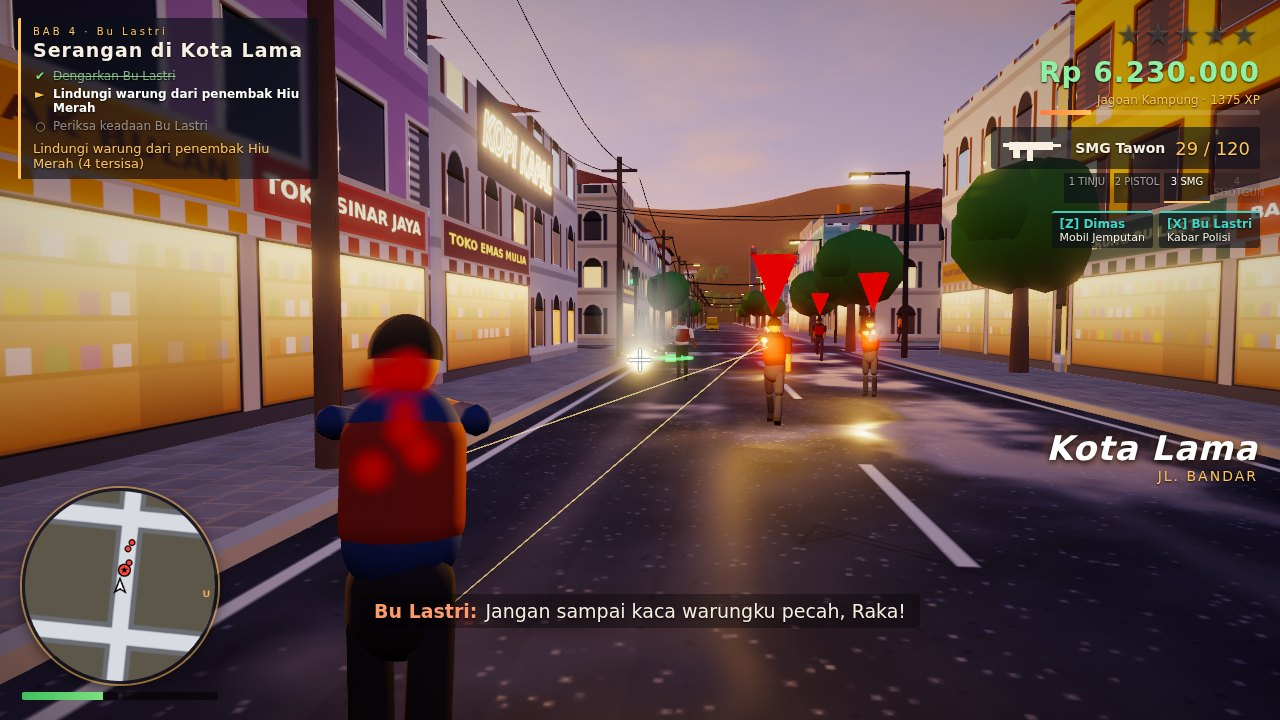
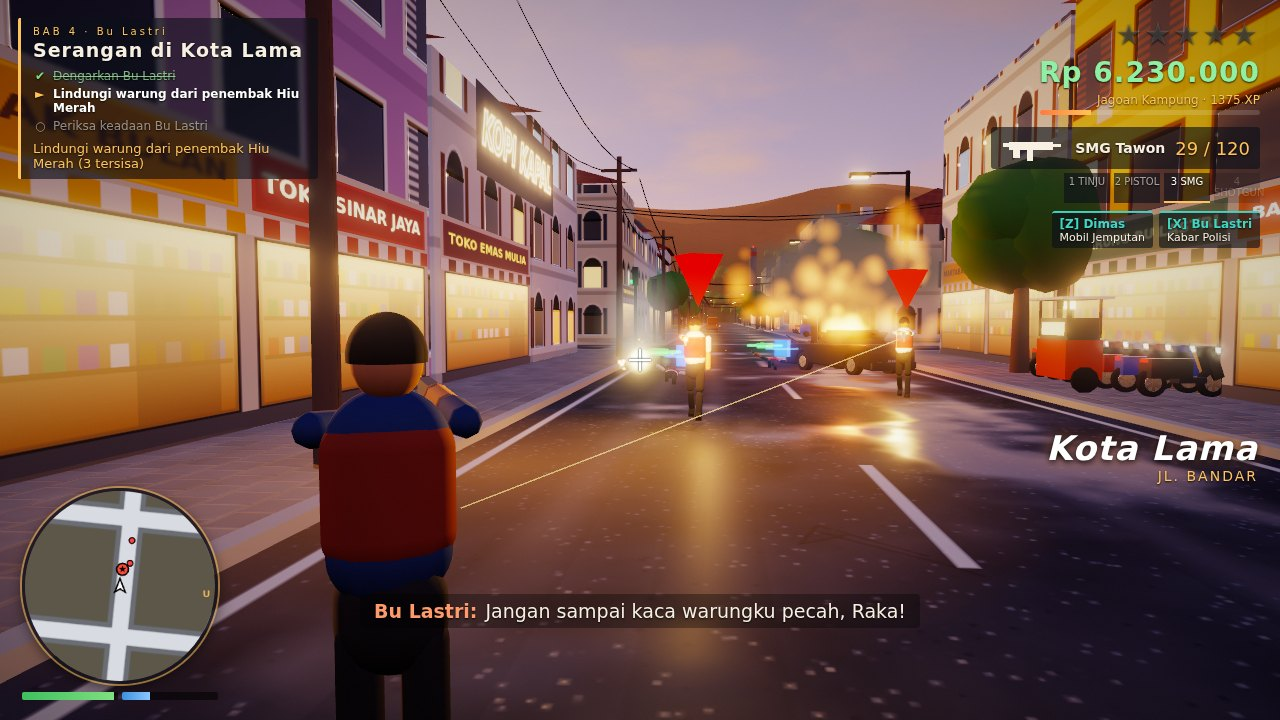
Lamp light pools, faces and headscarves, explosion fireball in the combat shot

diff --git a/game/src/characters/humanoid-model.js b/game/src/characters/humanoid-model.js
@@ -15,6 +15,11 @@ const G = {
   get shin() { return assets.geometry('h-shin', () => new THREE.CapsuleGeometry(0.06, 0.32, 3, 8).translate(0, -0.21, 0)); },
   get shoe() { return assets.geometry('h-shoe', () => new THREE.BoxGeometry(0.1, 0.07, 0.24).translate(0, -0.03, 0.05)); },
   get cap() { return assets.geometry('h-cap', () => new THREE.CylinderGeometry(0.12, 0.125, 0.1, 12).translate(0, 0.07, 0)); },
+  get eye() { return assets.geometry('h-eye', () => new THREE.SphereGeometry(0.016, 6, 4)); },
+  get nose() { return assets.geometry('h-nose', () => new THREE.BoxGeometry(0.03, 0.045, 0.04)); },
+  get scarf() { return assets.geometry('h-scarf', () => new THREE.SphereGeometry(0.135, 14, 10, 0, Math.PI * 2, 0, Math.PI * 0.62).scale(1, 1.15, 1.05)); },
+  get drape() { return assets.geometry('h-drape', () => new THREE.ConeGeometry(0.2, 0.26, 14, 1, true).translate(0, -0.02, 0)); },
+  get skirt() { return assets.geometry('h-skirt', () => new THREE.ConeGeometry(0.27, 0.78, 14, 1, true).translate(0, -0.4, 0)); },
   get brim() { return assets.geometry('h-brim', () => new THREE.BoxGeometry(0.2, 0.02, 0.12).translate(0, 0.03, 0.12)); },
 };
 
@@ -71,9 +76,19 @@ export class HumanoidModel {
     head.position.y = 0.12;
     head.castShadow = true;
     this.neck.add(head);
-    const hairMesh = new THREE.Mesh(G.hair, hair);
-    hairMesh.position.set(0, 0.135, -0.01);
-    this.neck.add(hairMesh);
+    const eyeMat = assets.cloth(0x140c08);
+    for (const sx of [-0.04, 0.04]) { const e = new THREE.Mesh(G.eye, eyeMat); e.position.set(sx, 0.14, 0.1); this.neck.add(e); }
+    const nose = new THREE.Mesh(G.nose, skin); nose.position.set(0, 0.11, 0.11); this.neck.add(nose);
+    if (look.scarf) {
+      // Headscarf framing the face, with a drape over the shoulders.
+      const sc = assets.cloth(look.scarf);
+      const cap = new THREE.Mesh(G.scarf, sc); cap.position.set(0, 0.11, -0.012); cap.rotation.x = -0.25; this.neck.add(cap);
+      const drape = new THREE.Mesh(G.drape, sc); drape.position.set(0, 0.02, 0); this.neck.add(drape);
+    } else {
+      const hairMesh = new THREE.Mesh(G.hair, hair);
+      hairMesh.position.set(0, 0.135, -0.01);
+      this.neck.add(hairMesh);
+    }
     if (look.cap) {
       const cap = new THREE.Mesh(G.cap, assets.cloth(look.cap));
       cap.position.y = 0.17;
@@ -89,6 +104,11 @@ export class HumanoidModel {
     const handR = new THREE.Mesh(G.hand, skin); handR.position.y = -0.27; this.foreR.add(handR);
     this.handR = new THREE.Group(); this.handR.position.y = -0.27; this.foreR.add(this.handR);
 
+    if (look.skirt) {
+      const sk = new THREE.Mesh(G.skirt, assets.cloth(look.skirt));
+      sk.position.y = 0.06; sk.castShadow = true;
+      this.hips.add(sk);
+    }
     this.legL = limb(this.hips, G.thigh, pants, 0.1, -0.02, 0);
     this.legR = limb(this.hips, G.thigh, pants, -0.1, -0.02, 0);
     this.shinL = limb(this.legL, G.shin, pants, 0, -0.43, 0);
@@ -110,7 +130,17 @@ export class HumanoidModel {
   setShadows(on) { this.root.traverse((o) => { if (o.isMesh) o.castShadow = on; }); }
 }
 
+export const SCARF_COLORS = [0xe8d8c0, 0x2a4a7a, 0x8a2a4a, 0x3a6a5a, 0xd8a8b8, 0x1a1a1a, 0xc8a040];
+
 export function randomLook(rng, overrides = {}) {
+  if (rng.chance(0.3)) {
+    // Women in a headscarf with a long skirt or trousers and a long-sleeved top.
+    return {
+      skin: rng.pick(SKIN_TONES), shirt: rng.pick(SHIRT_COLORS), pants: rng.pick(PANTS_COLORS), shoes: rng.pick([0x3a2a1a, 0x1a1410, 0xe8e8e8]),
+      scarf: rng.pick(SCARF_COLORS), skirt: rng.chance(0.6) ? rng.pick([0x2a2e3a, 0x6a3a5a, 0x3a4a6a, 0x8a7a5a]) : null,
+      longSleeves: true, scale: rng.range(0.88, 0.97), ...overrides,
+    };
+  }
   return {
     skin: rng.pick(SKIN_TONES), hair: rng.pick(HAIR_COLORS), shirt: rng.pick(SHIRT_COLORS), pants: rng.pick(PANTS_COLORS),
     shoes: rng.pick([0x1a1410, 0x3a2a1a, 0xe8e8e8, 0x2a2a3a]), cap: rng.chance(0.2) ? rng.pick([0x1a1a1a, 0xc83a2a, 0x2a5fa8, 0xe8e0c8]) : null,

diff --git a/game/src/effects/particle-system.js b/game/src/effects/particle-system.js
@@ -95,11 +95,11 @@ export class ParticleSystem {
   explosion(x, y, z, power = 1) {
     for (let i = 0; i < 70 * power; i++) {
       const a = rng.range(0, Math.PI * 2), e = rng.range(-0.2, 1), s = rng.range(4, 16) * power;
-      this.glow.add(particle({ x, y, z, vx: Math.cos(a) * s * Math.cos(e), vy: Math.sin(e) * s + 3, vz: Math.sin(a) * s * Math.cos(e), life: rng.range(0.4, 1.1), size0: rng.range(2.5, 4.5) * power, size1: 0.8, color0: [9, 4.5, 1.2], color1: [3, 0.6, 0.1], drag: 2.2, gravity: -1 }));
+      this.glow.add(particle({ x, y, z, vx: Math.cos(a) * s * Math.cos(e), vy: Math.sin(e) * s + 3, vz: Math.sin(a) * s * Math.cos(e), life: rng.range(0.5, 1.2), size0: rng.range(1.6, 3.2) * power, size1: 0.6, color0: [3.2, 1.2, 0.25], color1: [1.2, 0.18, 0.02], alpha: 0.55, drag: 2.2, gravity: -1 }));
     }
     for (let i = 0; i < 45 * power; i++) {
       const a = rng.range(0, Math.PI * 2), s = rng.range(1, 6);
-      this.soft.add(particle({ x: x + rng.range(-1, 1), y: y + rng.range(0, 2), z: z + rng.range(-1, 1), vx: Math.cos(a) * s, vy: rng.range(2, 7), vz: Math.sin(a) * s, life: rng.range(2.5, 5), size0: 3, size1: rng.range(9, 15) * power, color0: [0.25, 0.2, 0.18], color1: [0.5, 0.42, 0.4], alpha: 0.75, drag: 1.2, gravity: -0.6 }));
+      this.soft.add(particle({ x: x + rng.range(-1, 1), y: y + rng.range(0, 2), z: z + rng.range(-1, 1), vx: Math.cos(a) * s, vy: rng.range(2, 7), vz: Math.sin(a) * s, life: rng.range(2.5, 5), size0: 3, size1: rng.range(9, 15) * power, color0: [0.12, 0.1, 0.09], color1: [0.32, 0.28, 0.27], alpha: 0.8, drag: 1.2, gravity: -0.6 }));
     }
     this.sparks(x, y, z, 50 * power, 18);
   }

diff --git a/game/src/city/street-props.js b/game/src/city/street-props.js
@@ -140,6 +140,13 @@ export function buildStreetProps(collision) {
   const lamp = lampGeometries();
   group.add(instanced(lamp.pole, assets.material('lamp-pole'), lamps));
   group.add(instanced(lamp.glow, assets.material('lamp-glow'), lamps, { castShadow: false }));
+  // Warm pools of sodium light on the pavement under each lamp head (additive decals).
+  const poolGeo = new THREE.PlaneGeometry(11, 11).rotateX(-Math.PI / 2).translate(2.0, 0.05, 0);
+  const poolMat = new THREE.MeshBasicMaterial({ map: assets.texture('glow'), color: 0xffa860, transparent: true, opacity: 0.32, blending: THREE.AdditiveBlending, depthWrite: false, fog: true });
+  const pools = instanced(poolGeo, poolMat, lamps, { castShadow: false });
+  pools.receiveShadow = false;
+  pools.renderOrder = 2;
+  group.add(pools);
   const palm = palmGeometries();
   group.add(instanced(palm.trunk, assets.material('palm-trunk'), palms));
   group.add(instanced(palm.fronds, assets.material('palm-leaves'), palms));

diff --git a/game/src/debug/screenshot-director.js b/game/src/debug/screenshot-director.js
@@ -121,6 +121,12 @@ const SCENES = {
       b.health = Math.max(b.health, 150);
     });
     enemies[2].body.hit(500, b.pos, { knockback: 6, attacker: b });
+    // The gunmen's black sedan takes one burst too many.
+    const gangCar = s.vehicles.spawn('lestari', 21, 157.4, -Math.PI / 2 + 0.5, { color: 0x15161a });
+    gangCar.ai = { kind: 'parked' }; gangCar.controls.handbrake = true;
+    gangCar.explode();
+    gangCar.burnTimer = 0;
+    simulate(s, 0.4, () => { s.input.buttons.add(2); s.cameraRig.yaw = yaw; s.cameraRig.pitch = 0.08; });
     // Final frame: trigger held, a fresh burst in flight.
     s.cameraRig.yaw = yaw; s.cameraRig.pitch = 0.08;
     s.player.arsenal.cooldown = 0; s.player.arsenal.mag.smg = 30;

diff --git a/game/src/game-session.js b/game/src/game-session.js
@@ -191,7 +191,7 @@ export class GameSession {
     });
     events.on('explosion', ({ x, y, z, power }) => {
       this.particles.explosion(x, y, z, power);
-      this.lights.flash(x, y + 2, z, 0xff8a3a, 400, 0.9, 60);
+      this.lights.flash(x, y + 2, z, 0xff8a3a, 160, 0.9, 50);
       this.audio.explosion(this.camDist(x, z));
       const d = this.camDist(x, z);
       this.cameraRig.addShake(Math.max(0, 1.1 - d / 60));
